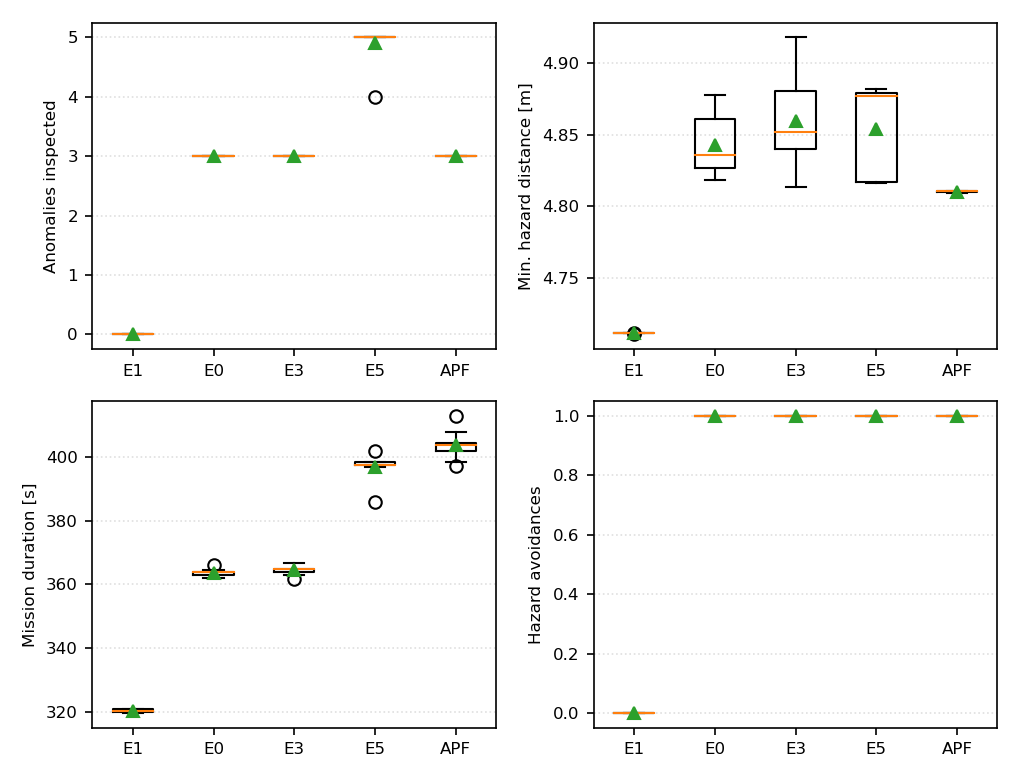
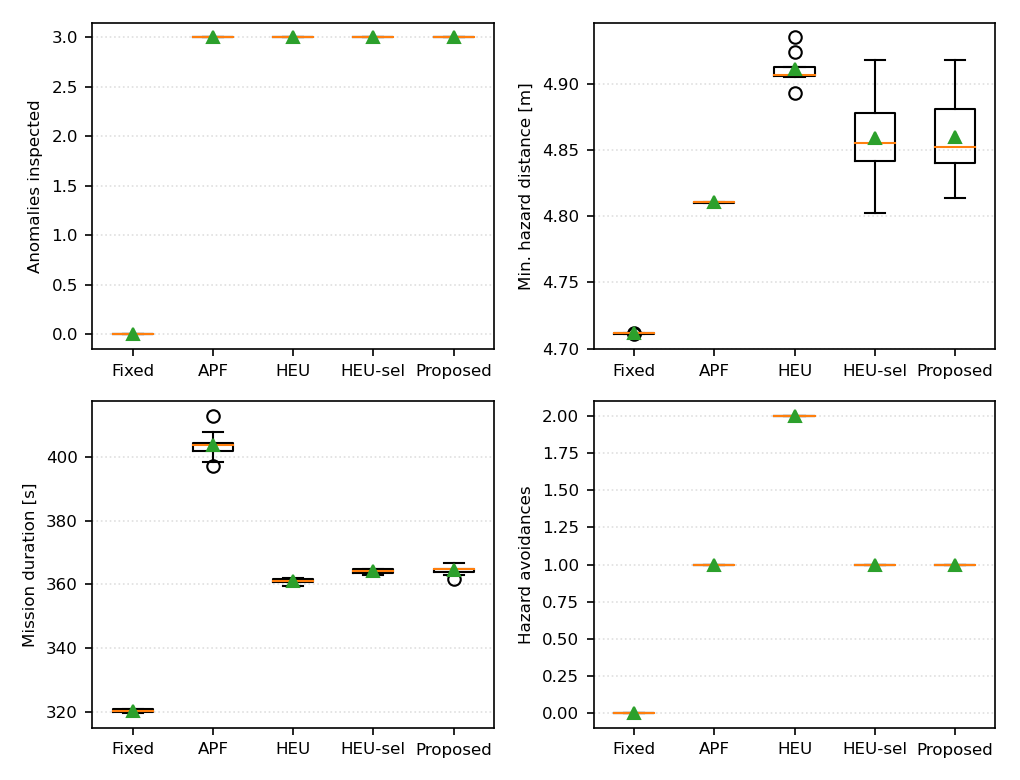
figuras: corrige as que contradiziam o reposicionamento
Auditoria das 7 figuras apos a reescrita. Tres exibiam a equacao de Bellman ou o
termo "affective" em destaque -- o texto foi corrigido mas as figuras nao, e e a
primeira coisa que um revisor ve ao reabrir o PDF (R2#1 avisa que o
reposicionamento "must be carried through consistently").

Corrigidas aqui (codigo):
- box_panel REGERADO. Saiu o E0: dar slot no painel principal a ablacao de eta
  contradiz te-la rebaixado ao apendice. Saiu o E5: e cenario `adverse` enquanto
  os demais sao `default`, entao estavam lado a lado no mesmo painel como se
  fossem comparacao direta -- o mesmo defeito que corrigimos nas tabelas.
  Entraram HEUd e HEUseld, a comparacao central, no mesmo cenario e controlador.
  Tambem corrigido o caminho de saida do gerador, que gravava na raiz do ws.
- Legenda do box_panel reescrita, declarando que os outros cenarios sao
  reportados em separado de proposito.
- Legenda de traj_overlay passa a declarar PROVENIENCIA: as trajetorias vem de
  uma sessao de pose-logging de junho, nao da bateria reportada (o pose_logger
  nao esta no pipeline), entao a figura ilustra o mecanismo qualitativo e nao
  carrega alegacao quantitativa.
- graphical_abstract_caption.txt reescrito: sem "affective", "autonomous",
  "Bellman" nem "zero collisions" (esta ultima e a alegacao que o R2#4 diz ser
  mais forte que a amostra sustenta, e aparecia sem o bound no artefato mais
  visivel do artigo).

Pendentes de re-renderizacao no Illustrae (REFAZER_FIGURAS.md tem a spec):
[…]

diff --git a/docs/artigo/sections/05_results.tex b/docs/artigo/sections/05_results.tex
@@ -112,14 +112,17 @@ Update residual          & $0.000$ & $0.021\pm0.009$ & $0.021\pm0.007$ & $0.020\
 \begin{figure}[t]
 \centering
 \includegraphics[width=\columnwidth]{box_panel}
-\caption{Per-run distributions of the key metrics ($\triangle$ = mean) for the
-fixed baseline (E1), the $\eta=0$ ablation (E0), the method (E3), the adverse
-scenario (E5), and the potential-field baseline (APF). The fixed baseline never
-inspects nor retreats; in the default scenario the affective configurations do so
-consistently (tight boxes) with E0 matching E3, and APF matches inspection at a
-longer mission duration. The dense adverse scenario (E5) shows a spread in
-anomalies inspected---not every run completes all five---consistent with the
-density limit reported in Section~\ref{sec:adverse}.}
+\caption{Per-run distributions of the key metrics ($\triangle$ = mean), all in the
+\texttt{default} scenario: the fixed patrol, the potential-field baseline (APF), the
+generic heuristic supervisor (HEU), the one-factor selection variant (HEU-sel) and
+the proposed layer. The fixed patrol never inspects nor retreats; the four reactive
+configurations all inspect the three anomalies, and HEU-sel is indistinguishable from
+the proposed layer throughout. HEU performs a second retreat and APF needs a longer
+mission for the same inspections. Every configuration shown ran in the same scenario
+and, except for APF, on the same Nav2/MPPI controller; the adverse and conflict
+scenarios are reported separately (Sections~\ref{sec:adverse} and~\ref{sec:heu})
+rather than placed alongside these, since comparing across scenarios in one panel
+would not be a direct comparison.}
 \label{fig:box}
 \end{figure}
 
@@ -143,9 +146,14 @@ whereas E1 traces the round directly.
 \centering
 \includegraphics[width=\columnwidth]{traj_overlay}
 \caption{Representative trajectories on the default scenario: the baseline
-patrol (E1, gray) follows the round directly, whereas the proposed layer
-(E3, Stay Alert, blue) deviates to approach the anomalies (thermal $\triangle$,
-acoustic $\square$) and skirts the hazard ($\times$) zone. World frame, metres.}
+patrol (gray) follows the round directly, whereas the proposed layer (blue) deviates
+to approach the anomalies (thermal $\triangle$, acoustic $\square$) and skirts the
+hazard ($\times$) zone. World frame, metres. \emph{Provenance:} these two traces come
+from a separate pose-logging session, not from the reported battery---continuous pose
+is not recorded during the evaluation runs---so the figure illustrates the
+\emph{qualitative} deviate-and-return mechanism and carries no quantitative claim;
+all numbers in this article come from the battery described in
+Section~\ref{sec:setup}.}
 \label{fig:traj}
 \end{figure}
 

diff --git a/src/tese_nav/scripts/gerar_boxplots.py b/src/tese_nav/scripts/gerar_boxplots.py
@@ -1,8 +1,19 @@
 #!/usr/bin/env python3
-"""Painel 2x2 de boxplots das métricas-chave p/ o paper (bateria uniforme).
-Lê ~/tese_ws/results/metrics_*.csv, EXCLUI spawn-fails (distância~0).
-Configs: E1 (baseline), E0 (ablação η=0), E3 (método), E5 (adverso),
-APF (baseline reativo). Saída: box_panel.pdf/.png."""
+"""Painel 2x2 de boxplots das métricas-chave p/ o paper.
+
+RESUBMISSÃO -- duas correções na seleção de configs:
+ 1) Sai o E0 (ablação η=0). O termo de valor foi rebaixado a nota de apêndice,
+    então dar-lhe um slot no painel principal contradiz o reposicionamento
+    (R3#1/R2#1 pedem consistência entre título, abstract, corpo e figuras).
+ 2) Sai o E5. Ele é cenário `adverse`, enquanto os demais são `default`: tê-los
+    lado a lado no mesmo painel é comparar cenários diferentes como se fossem
+    uma comparação direta -- o mesmo defeito que corrigimos nas tabelas.
+Entram HEUd e HEUseld, que são a comparação central da resubmissão e rodam no
+MESMO cenário e MESMO controlador.
+
+Configs (todas `default`): E1 (ronda fixa), APF (campo potencial), HEUd
+(heurística genérica), HEUseld (variante de um fator), E3 (proposta).
+Saída: box_panel.pdf/.png."""
 import csv, glob, os, re
 import matplotlib
 matplotlib.use('Agg')
@@ -11,7 +22,9 @@ import numpy as np
 
 RES = os.path.expanduser('~/tese_ws/results')
 LABEL_RE = re.compile(r'metrics_([A-Za-z0-9]+)_\d{8}_\d{6}\.csv$')
-EXPS = ['E1', 'E0', 'E3', 'E5', 'APF']
+EXPS = ['E1', 'APF', 'HEUd', 'HEUseld', 'E3']
+NOMES = {'E1': 'Fixed', 'APF': 'APF', 'HEUd': 'HEU',
+         'HEUseld': 'HEU-sel', 'E3': 'Proposed'}
 PANELS = [
     ('anomalies_unique', 'Anomalies inspected'),
     ('min_hazard_distance_m', 'Min. hazard distance [m]'),
@@ -54,12 +67,13 @@ def vals(exp, metric):
 fig, axes = plt.subplots(2, 2, figsize=(6.8, 5.2))
 for ax, (metric, label) in zip(axes.ravel(), PANELS):
     data = [vals(e, metric) or [np.nan] for e in EXPS]
-    ax.boxplot(data, labels=EXPS, showmeans=True)
+    ax.boxplot(data, labels=[NOMES.get(e, e) for e in EXPS], showmeans=True)
     ax.set_ylabel(label, fontsize=8)
     ax.tick_params(labelsize=8)
     ax.grid(True, axis='y', ls=':', alpha=0.4)
 fig.tight_layout()
-fig.savefig('box_panel.pdf')
-fig.savefig('box_panel.png', dpi=150)
+OUT = os.path.expanduser('~/tese_ws/docs/artigo/figs/box_panel')
+fig.savefig(OUT + '.pdf')
+fig.savefig(OUT + '.png', dpi=150)
 n = {e: len(vals(e, 'anomalies_unique')) for e in EXPS}
 print('salvo box_panel.pdf/.png | n válidos por config:', n)

diff --git a/docs/artigo/REFAZER_FIGURAS.md b/docs/artigo/REFAZER_FIGURAS.md
@@ -1,0 +1,84 @@
+# Figuras a refazer — resubmissão Access-2026-46291
+
+Auditoria de 2026-10-14, após a reescrita. **Três figuras contradizem o
+reposicionamento** e precisam ser re-renderizadas no Illustrae; as demais já foram
+corrigidas ou estão corretas.
+
+## Por que isso importa
+
+O R3#1 pede que título, abstract e keywords não prometam um componente de
+aprendizado que o sistema avaliado não tem, e o R2#1 avisa que o reposicionamento
+"must be carried through... consistently". Corrigimos o texto — mas **as Figuras 1
+e 2 continuam exibindo a equação de Bellman em caixa de destaque**. Um revisor
+reabrindo o PDF vê a contradição antes de ler o abstract corrigido.
+
+---
+
+## 1. `concept_overview` (Fig. 1) — REFAZER
+
+**Problema:** caixa inferior "passive value-update substrate (not actuated)" com
+`Q ← Q + α[r + γ max Q' − Q] + ηΦ` em destaque, ocupando a largura toda.
+
+**Ação:** **remover a caixa inteira.** A atualização de valor agora é nota de
+projeto no Apêndice, não parte do conceito. Nada entra no lugar — a figura ganha ar
+e o conceito (ronda ativa + atração/repulsão) fica mais legível.
+
+**Resto da figura:** correto. Manter "active-sensing patrol (Nav2)", "Φ → threshold",
+"repel (Φ<0): retreat" e "attract (Φ>0): approach & inspect".
+
+## 2. `architecture` (Fig. 2) — REFAZER
+
+**Problemas:**
+- caixa "Bellman value update (passive)" com a equação e a legenda "computed but not
+  actuated — substrate for a future learned policy";
+- título do bloco inferior: "Reactive affective — Stay Alert".
+
+**Ações:**
+- **remover a caixa do Bellman** e a seta tracejada que leva a ela;
+- título do bloco inferior → **"Reactive — Stay Alert"**;
+- "Affective field Φ" → **"Attraction–repulsion field Φ"**;
+- *(opcional, reforça o achado central)* rotular o canal verde do keepout como
+  **"keepout channel — carries the clearance result"**.
+
+**Resto:** correto. Manter os blocos deliberativos, o canal `/cmd_vel`, o retorno de
+pose/eventos e a FSM.
+
+## 3. `GA.png` (graphical abstract) — REFAZER
+
+**Problemas:**
+- "Reactive **affective** layer";
+- rodapé: "safe hazard retreat — **zero collisions**, at a modest time cost".
+
+**Ações:**
+- "Reactive affective layer" → **"Reactive layer"**;
+- rodapé → **"inspects all three anomalies; clearance from the keep-out, not the
+  weighting"**. O "zero collisions" sai: é a alegação que o R2#4 diz ser mais forte
+  do que a amostra sustenta, e aqui aparece sem o bound, no artefato mais visível.
+
+A legenda textual (`graphical_abstract_caption.txt`) **já foi reescrita** e não tem
+mais "affective", "autonomous", "Bellman" nem "zero collisions".
+
+---
+
+## Já resolvidas, sem ação
+
+| figura | situação |
+|---|---|
+| `stay_alert_fsm` (Fig. 3) | **Correta.** Só FSM e campo Φ; nada de Bellman. |
+| `qconv` (resíduo) | **Regerada** com os quatro η sobrepostos; foi para o Apêndice. |
+| `box_panel` | **Regerada**: saiu o E0 (contradizia o rebaixamento) e saiu o E5 (misturava `adverse` com `default` no mesmo painel); entraram HEU e HEU-sel. |
+| `traj_overlay` | Imagem mantida; **legenda** passou a declarar a proveniência (sessão de pose-logging separada, não a bateria reportada). Ver nota abaixo. |
+| `world_map` | Estático, o mundo não mudou. |
+
+### Nota sobre `traj_overlay`
+
+As trajetórias vêm de `figs/traj_E1.csv` e `traj_E3.csv`, capturados em **junho**,
+antes das correções P0 das rodadas 2–5. O `pose_logger.py` **não está no pipeline da
+bateria**, então não há trajetória contínua nos runs reportados e a figura não pode
+ser regerada a partir deles sem instrumentar e re-executar.
+
+Optamos por **declarar a proveniência na legenda** e deixar a figura como ilustração
+qualitativa, sem alegação quantitativa. Se preferir eliminar a ressalva, a alternativa
+é instrumentar o `pose_logger` no launch e rodar 2 runs (~15 min) — mas isso
+introduziria uma figura de versão de código diferente da bateria, trocando um
+problema de proveniência por outro. A declaração é a opção mais honesta.
